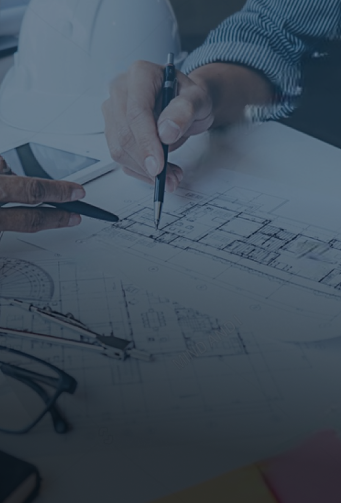
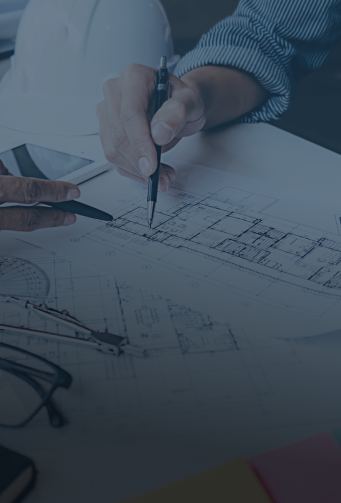
images updated

diff --git a/index.html b/index.html
@@ -222,7 +222,7 @@
                         <div class="form-sect-1">
                             <input type="text" placeholder="Your Name">
                             <input class="mt-3" type="text" placeholder="Email">
-                            <button class="mt-5">Submit</button>
+                            <button class="mt-5 Submit-btn">Submit</button>
                         </div>
                         <div class="form-sect-2">
                             <input type="text" placeholder="Phone Number">

diff --git a/Styles/style.css b/Styles/style.css
@@ -13,7 +13,7 @@ body{
 
 /* header */
 header{
-    background-image: url('../Images/top_bg.png');
+    background-image: url('../Images/top_bg.jpg');
     height: 100vh;
     background-size: cover;
 }
@@ -359,6 +359,16 @@ header{
 
 .form-sect-1, .form-sect-2{
     width: 45%;
+}
+
+.form-sect-1{
+    position: relative;
+}
+
+.Submit-btn{
+    position: absolute;
+    bottom: 0.4rem;
+    left: 0;
 }
 
 .form-sect-1 input{
